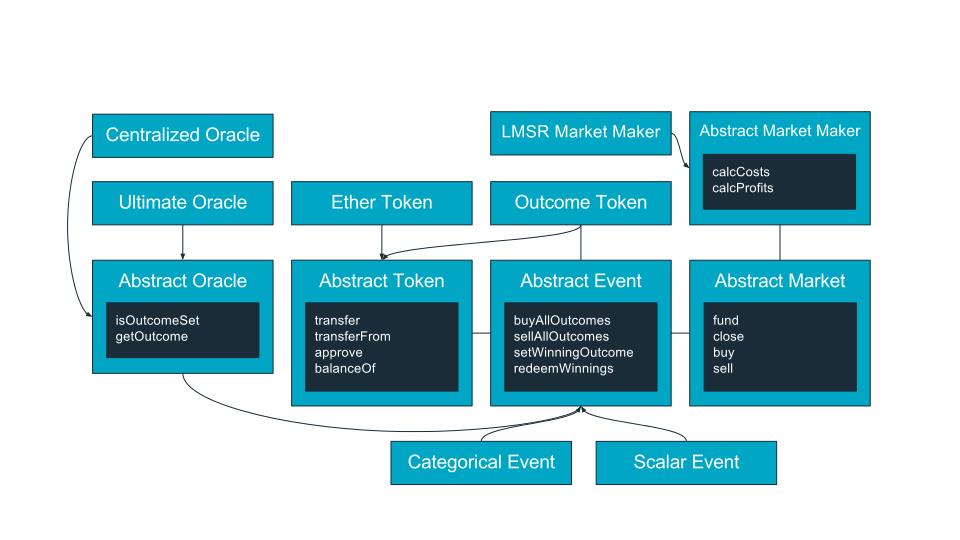
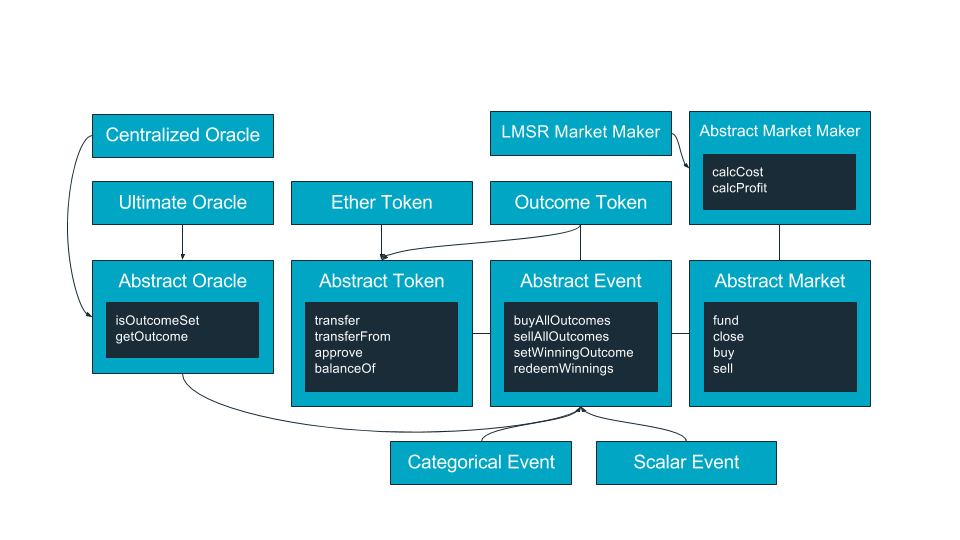
updated class diagram
Original-author: Stefan George <noreply@sgeorge.de>
Original-commit: 5f54b9f4132d505d97be3bfde10c0420a3c1d1f4

diff --git a/CONTRACTS.md b/CONTRACTS.md
@@ -81,8 +81,11 @@ Markets
 #### shortSell(uint8 outcomeTokenIndex, uint outcomeTokenCount, uint minProfits) returns (uint)
 #### calcMarketFee(uint outcomeTokenCosts) returns (uint)
 
+### Default market
+#### DefaultMarket(address _creator, Event _eventContract, MarketMaker _marketMaker, uint _fee)
+
 ### Abstract market maker
-#### calcCosts(Market market, uint8 outcomeTokenIndex, uint outcomeTokenCount) returns (uint)
-#### calcProfits(Market market, uint8 outcomeTokenIndex, uint outcomeTokenCount) returns (uint)
+#### calcCost(Market market, uint8 outcomeTokenIndex, uint outcomeTokenCount) returns (uint)
+#### calcProfit(Market market, uint8 outcomeTokenIndex, uint outcomeTokenCount) returns (uint)
 
 ### LMSR market maker
